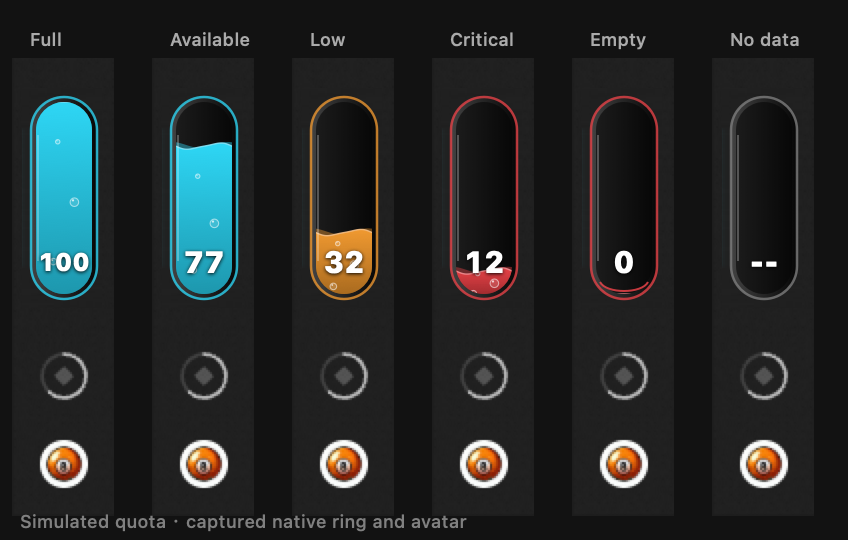
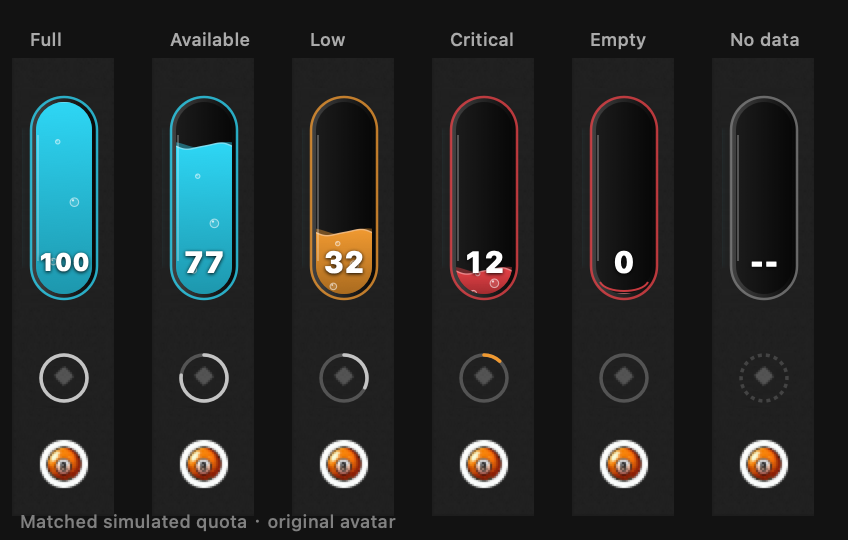
docs: match preview ring progress to simulated quota

diff --git a/scripts/state-preview.swift b/scripts/state-preview.swift
@@ -1,8 +1,7 @@
 import AppKit
 
 
-// Keep the user's real sidebar, native indicator and avatar. Only the large
-// QuotaDock gauge is replaced with simulated values from the production view.
+// Keep the user's sidebar, center icon and avatar; simulate both quota displays.
 let reference = NSImage(contentsOfFile: CommandLine.arguments[2])!
 reference.size = NSSize(width: 51, height: 229)
 let canvas = NSSize(width: 424, height: 270)
@@ -30,10 +29,37 @@ func render(phase: Double, destination: String) throws {
         label(state.0, at: NSPoint(x: x + 9, y: 245), size: 9, color: .lightGray)
         reference.draw(in: NSRect(x: x, y: 12, width: 51, height: 229))
         // Replace only the captured gauge using adjacent clean sidebar pixels.
-        // The native ring (including its center icon) and avatar stay intact.
+        // The avatar stays intact; redraw only the native ring's progress below.
         reference.draw(in: NSRect(x: x + 5, y: 12 + 104, width: 40, height: 110),
                        from: NSRect(x: 44, y: 104, width: 5, height: 110),
                        operation: .copy, fraction: 1)
+        reference.draw(in: NSRect(x: x + 12, y: 12 + 54, width: 28, height: 29),
+                       from: NSRect(x: 44, y: 54, width: 5, height: 29),
+                       operation: .copy, fraction: 1)
+        reference.draw(in: NSRect(x: x + 20, y: 12 + 63, width: 12, height: 12),
+                       from: NSRect(x: 20, y: 63, width: 12, height: 12),
+                       operation: .copy, fraction: 1)
+        let ringRect = NSRect(x: x + 14.5, y: 12 + 57.5, width: 23, height: 23)
+        let track = NSBezierPath(ovalIn: ringRect)
+        track.lineWidth = 1.75
+        NSColor(calibratedWhite: 0.65, alpha: state.1 == nil ? 0.24 : 0.35).setStroke()
+        if state.1 == nil { track.setLineDash([2, 2], count: 2, phase: 0) }
+        track.stroke()
+        if let percent = state.1, percent > 0 {
+            let progress: NSBezierPath
+            if percent == 100 { progress = NSBezierPath(ovalIn: ringRect) }
+            else {
+                progress = NSBezierPath()
+                progress.appendArc(withCenter: NSPoint(x: ringRect.midX, y: ringRect.midY),
+                    radius: ringRect.width / 2, startAngle: 90,
+                    endAngle: 90 - CGFloat(percent) * 3.6, clockwise: true)
+            }
+            progress.lineWidth = 1.75
+            progress.lineCapStyle = .round
+            (percent < 15 ? NSColor(srgbRed: 0.94, green: 0.60, blue: 0.19, alpha: 1)
+                : NSColor(calibratedWhite: 0.72, alpha: 1)).setStroke()
+            progress.stroke()
+        }
         let view = QuotaMeterView(frame: NSRect(origin: .zero, size: QuotaMeterView.size))
         view.remainingPercent = state.1
         view.phase = phase
@@ -43,7 +69,7 @@ func render(phase: Double, destination: String) throws {
         view.draw(view.bounds)
         NSGraphicsContext.restoreGraphicsState()
     }
-    label(english ? "Simulated quota · captured native ring and avatar" : "模拟额度 · 原生圆环与头像取自用户截图",
+    label(english ? "Matched simulated quota · original avatar" : "槽体与圆环额度同步示意 · 保留原头像",
           at: NSPoint(x: 10, y: 4), size: 9, color: .gray)
     NSGraphicsContext.restoreGraphicsState()
     try bitmap.representation(using: .png, properties: [:])!.write(to: URL(fileURLWithPath: destination))

diff --git a/README.en.md b/README.en.md
@@ -4,9 +4,9 @@
 
 A macOS liquid gauge for your remaining Codex quota. It sits above your avatar, follows the main window, and lets mouse clicks pass through.
 
-![QuotaDock in six simulated quota states](https://raw.githubusercontent.com/wind8ai/quota-dock/main/docs/images/quota-dock-en.gif?v=664b479a6275)
+![QuotaDock in six simulated quota states](https://raw.githubusercontent.com/wind8ai/quota-dock/main/docs/images/quota-dock-en.gif?v=366bffa31d8f)
 
-Current version: **3.1.1 / build 24**. Cyan means at least 50% remains, amber means 20% to below 50%, and red means below 20%. `0` leaves a thin red line; `--` means no valid server snapshot is currently available. The six quota values are simulated. The native ring, center icon and avatar come from the user's screenshot; the ring is a fixed reference, not linked to each column's value.
+Current version: **3.1.1 / build 24**. Cyan means at least 50% remains, amber means 20% to below 50%, and red means below 20%. `0` leaves a thin red line; `--` means no valid server snapshot is currently available. The six quota values are simulated. The lower ring follows the same simulated value as its column, with a dashed ring for unavailable data. The center icon and avatar are preserved from the user's screenshot.
 
 The current design uses a 36 × 104 pt liquid gauge, white monospaced heavy numbers up to 15 pt, and a diffuse black shadow with a 4 pt blur radius—no number plate or outline. The current account-bar layout leaves roughly 20 pt between the gauge and the native ring. [View the static preview](docs/images/quota-dock-en-states.png). Both PNG and GIF render the upper gauge from the current production view with synthetic values; the lower sidebar and avatar use the user's authorized screenshot.
 

diff --git a/README.md b/README.md
@@ -4,9 +4,9 @@
 
 把 Codex 的剩余额度放在头像上方的 macOS 液体槽。液面表示剩余比例，底部显示整数；窗口移动时跟随，鼠标可以穿透。
 
-![QuotaDock 六种模拟额度状态](https://raw.githubusercontent.com/wind8ai/quota-dock/main/docs/images/quota-dock.gif?v=fafb2fe037f1)
+![QuotaDock 六种模拟额度状态](https://raw.githubusercontent.com/wind8ai/quota-dock/main/docs/images/quota-dock.gif?v=23e7d7dd89be)
 
-当前版本 **3.1.1 / build 24**。青蓝色表示剩余至少 50%，琥珀色表示 20% 到不足 50%，红色表示不足 20%。`0` 保留红色细线，`--` 表示当前没有有效的服务端快照。图中六种额度均为模拟值；下方圆环、中心图标和头像保留用户提供的真实截图，圆环只作固定参考，不随各列数值变化。
+当前版本 **3.1.1 / build 24**。青蓝色表示剩余至少 50%，琥珀色表示 20% 到不足 50%，红色表示不足 20%。`0` 保留红色细线，`--` 表示当前没有有效的服务端快照。图中六种额度均为模拟值；下方圆环按同列额度同步绘制，中心图标和头像保留用户提供的截图。无数据圆环使用虚线示意。
 
 当前样式为 36 × 104 pt 液体槽、最多 15 pt 白色等宽重体与 4 pt 扩散黑色阴影，不使用数字底板或描边。按当前账号栏布局，与原生圆环留出约 20 pt 间隔。[查看静态效果图](docs/images/quota-dock-states.png)。PNG 与 GIF 的上方槽体直接使用当前生产视图绘制，数值为合成数据；下方侧栏与头像使用用户授权保留的截图。
 

diff --git a/docs/native-usage-reference.md b/docs/native-usage-reference.md
@@ -21,6 +21,6 @@
 - 不复制环形外观：QuotaDock 用液位和常显大数字，充足时用青蓝色，避免与原生中性线环混淆。
 - 3.0.9 槽体为 36 × 104 pt，再上移 18 pt；与截图中的原生圆环预留约 20 pt，仍是固定几何定位，不是实时读取原生控件边界。
 - 3.0.9 仍读取本地 JSONL；3.1.0 已改用官方 app-server 的 `account/rateLimits/read`，不再读取日志或单调缓存。单根优先显示 5 小时，否则每周；不声称等价于原生双周期／credits 数据或推送时效。
-- `scripts/state-preview.swift` 直接绘制生产视图；下方圆环、中心图标与头像使用用户于 2026-10-26 提供并允许保留头像的截图（`docs/images/sidebar-reference.png`），作为固定参考，不与六列模拟额度联动。
+- `scripts/state-preview.swift` 直接绘制生产视图；侧栏、中心图标与头像使用用户于 2026-10-26 授权的截图（`docs/images/sidebar-reference.png`）。圆环采用 1.75 pt 圆头描边，按每列同一模拟额度重绘：满环、部分进度、低额度警示、空轨道和无数据虚线。它是单周期效果示意，不表示原生所有状态的完整复刻；头像不变。
 
 公开协议依据：[Codex App Server](https://learn.chatgpt.com/docs/app-server)。本机 CLI `0.164.0-alpha.11.1` 已实测该方法可用；使用现有登录，不读取或复制令牌。详细身份边界和失败处理见 `behavior.md`。

diff --git a/docs/releasing.en.md b/docs/releasing.en.md
@@ -38,7 +38,7 @@ After notarization is accepted, staple and verify the ticket on the `.app`, then
 
 Public source is at [wind8ai/quota-dock](https://github.com/wind8ai/quota-dock). Standalone repository tags use `v<version>`; the maintenance monorepo uses `quota-dock/v<version>`. Source pushes, version tags, and binary releases are separate steps. A source push does not mean a binary has been published.
 
-Git stores source, tests, scripts, and documentation assets. Build caches, app bundles, ZIP archives, real sessions and quota caches are excluded. Actual usage screenshots are excluded unless the user explicitly authorizes a reference for documentation. Current previews use synthetic values for the upper gauge and retain the reference screenshot's native ring and avatar below; the ring is fixed rather than linked to the simulated values.
+Git stores source, tests, scripts, and documentation assets. Build caches, app bundles, ZIP archives, real sessions and quota caches are excluded. Actual usage screenshots are excluded unless the user explicitly authorizes a reference for documentation. Current previews use the same synthetic value for each column's gauge and ring, while preserving the authorized reference screenshot's sidebar, center icon and avatar.
 
 ## Tooling
 

diff --git a/docs/releasing.md b/docs/releasing.md
@@ -38,7 +38,7 @@ SIGNING_IDENTITY='Developer ID Application: YOUR NAME (TEAMID)' ./scripts/packag
 
 公开源码位于 [wind8ai/quota-dock](https://github.com/wind8ai/quota-dock)。独立仓库标签使用 `v<version>`；维护 monorepo 的标签使用 `quota-dock/v<version>`。源码推送、版本标签和二进制发布是独立步骤，推送源码不表示对应二进制已发布。
 
-Git 保存源码、测试、脚本和文档展示素材。构建缓存、应用包、ZIP、真实会话和额度缓存不提交。实际使用截图默认不提交；用户明确授权用于文档的参考截图除外。当前预览上方槽体使用合成额度，下方圆环与头像保留用户提供的参考截图，圆环作为固定参考，不随模拟数值变化。
+Git 保存源码、测试、脚本和文档展示素材。构建缓存、应用包、ZIP、真实会话和额度缓存不提交。实际使用截图默认不提交；用户明确授权用于文档的参考截图除外。当前预览的槽体与下方圆环使用同一列的合成额度；侧栏、圆环中心图标与头像保留用户授权的参考截图。
 
 ## 技术选择
 
